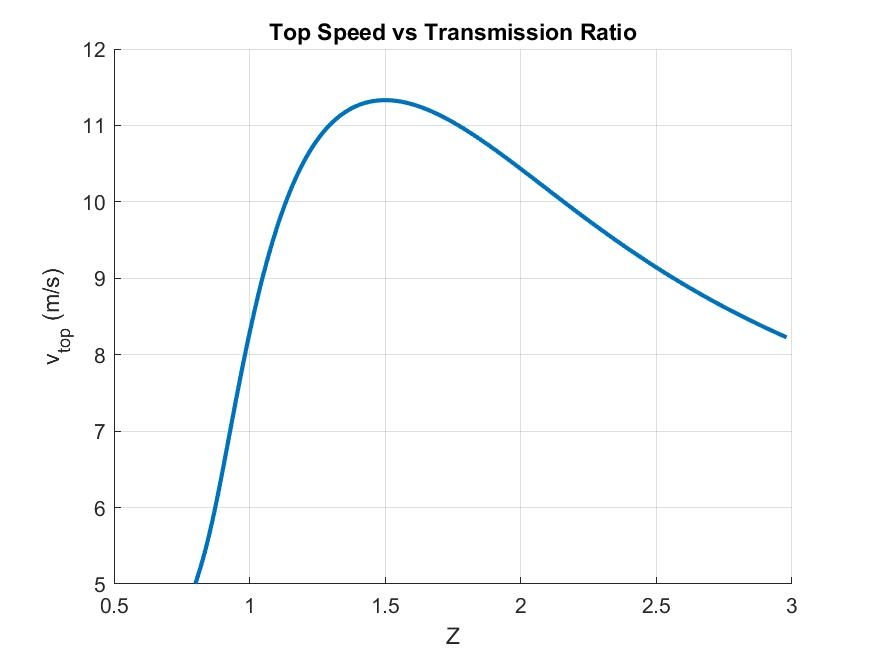
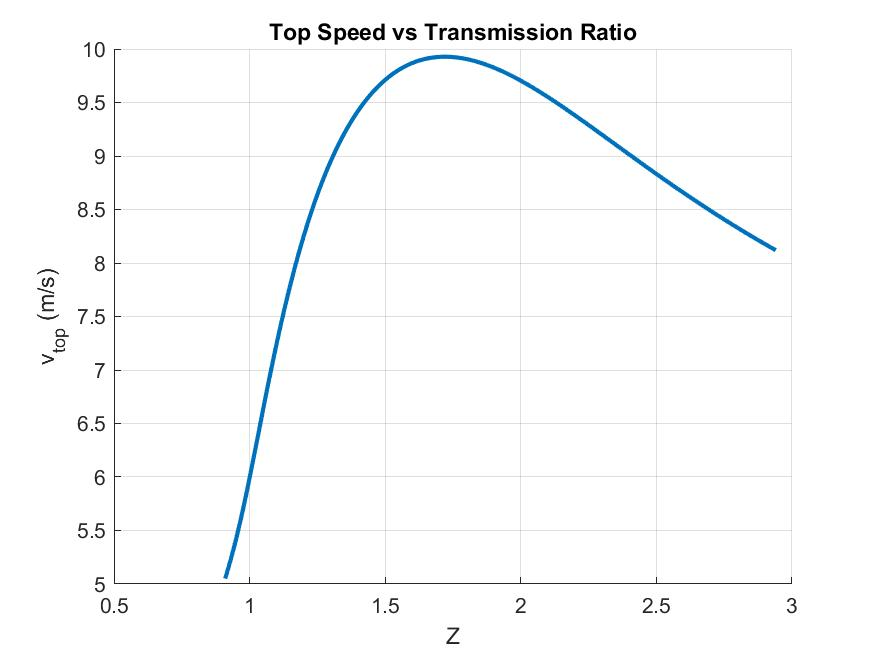
Added Belt Losses

diff --git a/Vehicle.m b/Vehicle.m
@@ -2,6 +2,7 @@ classdef Vehicle
 	properties
 		air Air
 		fan Fan
+		d
 		Z
 		F_d
 		mul_a
@@ -13,18 +14,20 @@ classdef Vehicle
 		function self = Vehicle(air, fan, Z, F_d)
 			self.air = air;
 			self.fan = fan;
+			L = 35e-2;
+			self.d = 0.15*L;
 			self.Z = Z;
 			self.F_d = F_d;
-			L = 35e-2;
-			d = 0.15*L;
 			t_wheel = 10e-3;
 			R_wheel = 0.6e3;
-			m_wheel = d^2*pi/4*t_wheel*R_wheel;
-			I_wheel = m_wheel*d^2/8;
+			m_wheel = self.d^2*pi/4*t_wheel*R_wheel;
+			I_wheel = m_wheel*self.d^2/8;
 			m_body = 350e-3;
 			m = m_body+fan.m+m_wheel*3;
-			self.mul_a = (m+(12*I_wheel+4*self.fan.I/self.Z^2)/d^2)^-1;
-			self.mul_q = 2/(self.Z*d);
+			self.mul_a = (m+(12*I_wheel+4*self.fan.I/self.Z^2)/self.d^2)^-1;
+			% https://www.grainger.com/know-how/equipment-information/kh-types-of-belt-drives-efficiency
+			n = 0.9;
+			self.mul_q = 2/(n*self.Z*self.d);
 			% https://www.engineeringtoolbox.com/dynamic-viscosity-motor-oils-d_1759.html
 			u = 0.63;
 			mul_u = 2*pi*u*self.mul_q;
@@ -39,19 +42,19 @@ classdef Vehicle
 		end
 		function [a, v_t, F_t, F_q, F_c, F_k, F_d, F_net] = Acceleration(self, v)
 			v_t = self.air.TrueSpeed(v);
-			w_c = self.mul_q*v;
-			w_k = self.Z*w_c;
-			[F_t, T_q] = self.fan.Find(self.air, v_t, w_c);
+			w_b = 2/self.d*v;
+			w_p = w_b/self.Z;
+			[F_t, T_q] = self.fan.Find(self.air, v_t, w_p);
 			F_q = self.mul_q*T_q;
-			F_c = self.mul_c*w_c;
-			F_k = self.mul_k*w_k;
+			F_c = self.mul_c*w_p;
+			F_k = self.mul_k*w_b;
 			F_d = self.F_d(v_t);
 			F_net = F_t-F_q-F_c-F_k-F_d;
 			a = F_net*self.mul_a;
 		end
 		function [v_min, v_max] = SpeedBoundary(self)
-			v_min = max(self.air.V, self.fan.w_min/self.mul_q);
-			v_max = self.fan.w_max/self.mul_q;
+			v_min = max(self.air.V, self.fan.w_min*self.d/2*self.Z);
+			v_max = self.fan.w_max*self.d/2*self.Z;
 		end
 	end
 end
